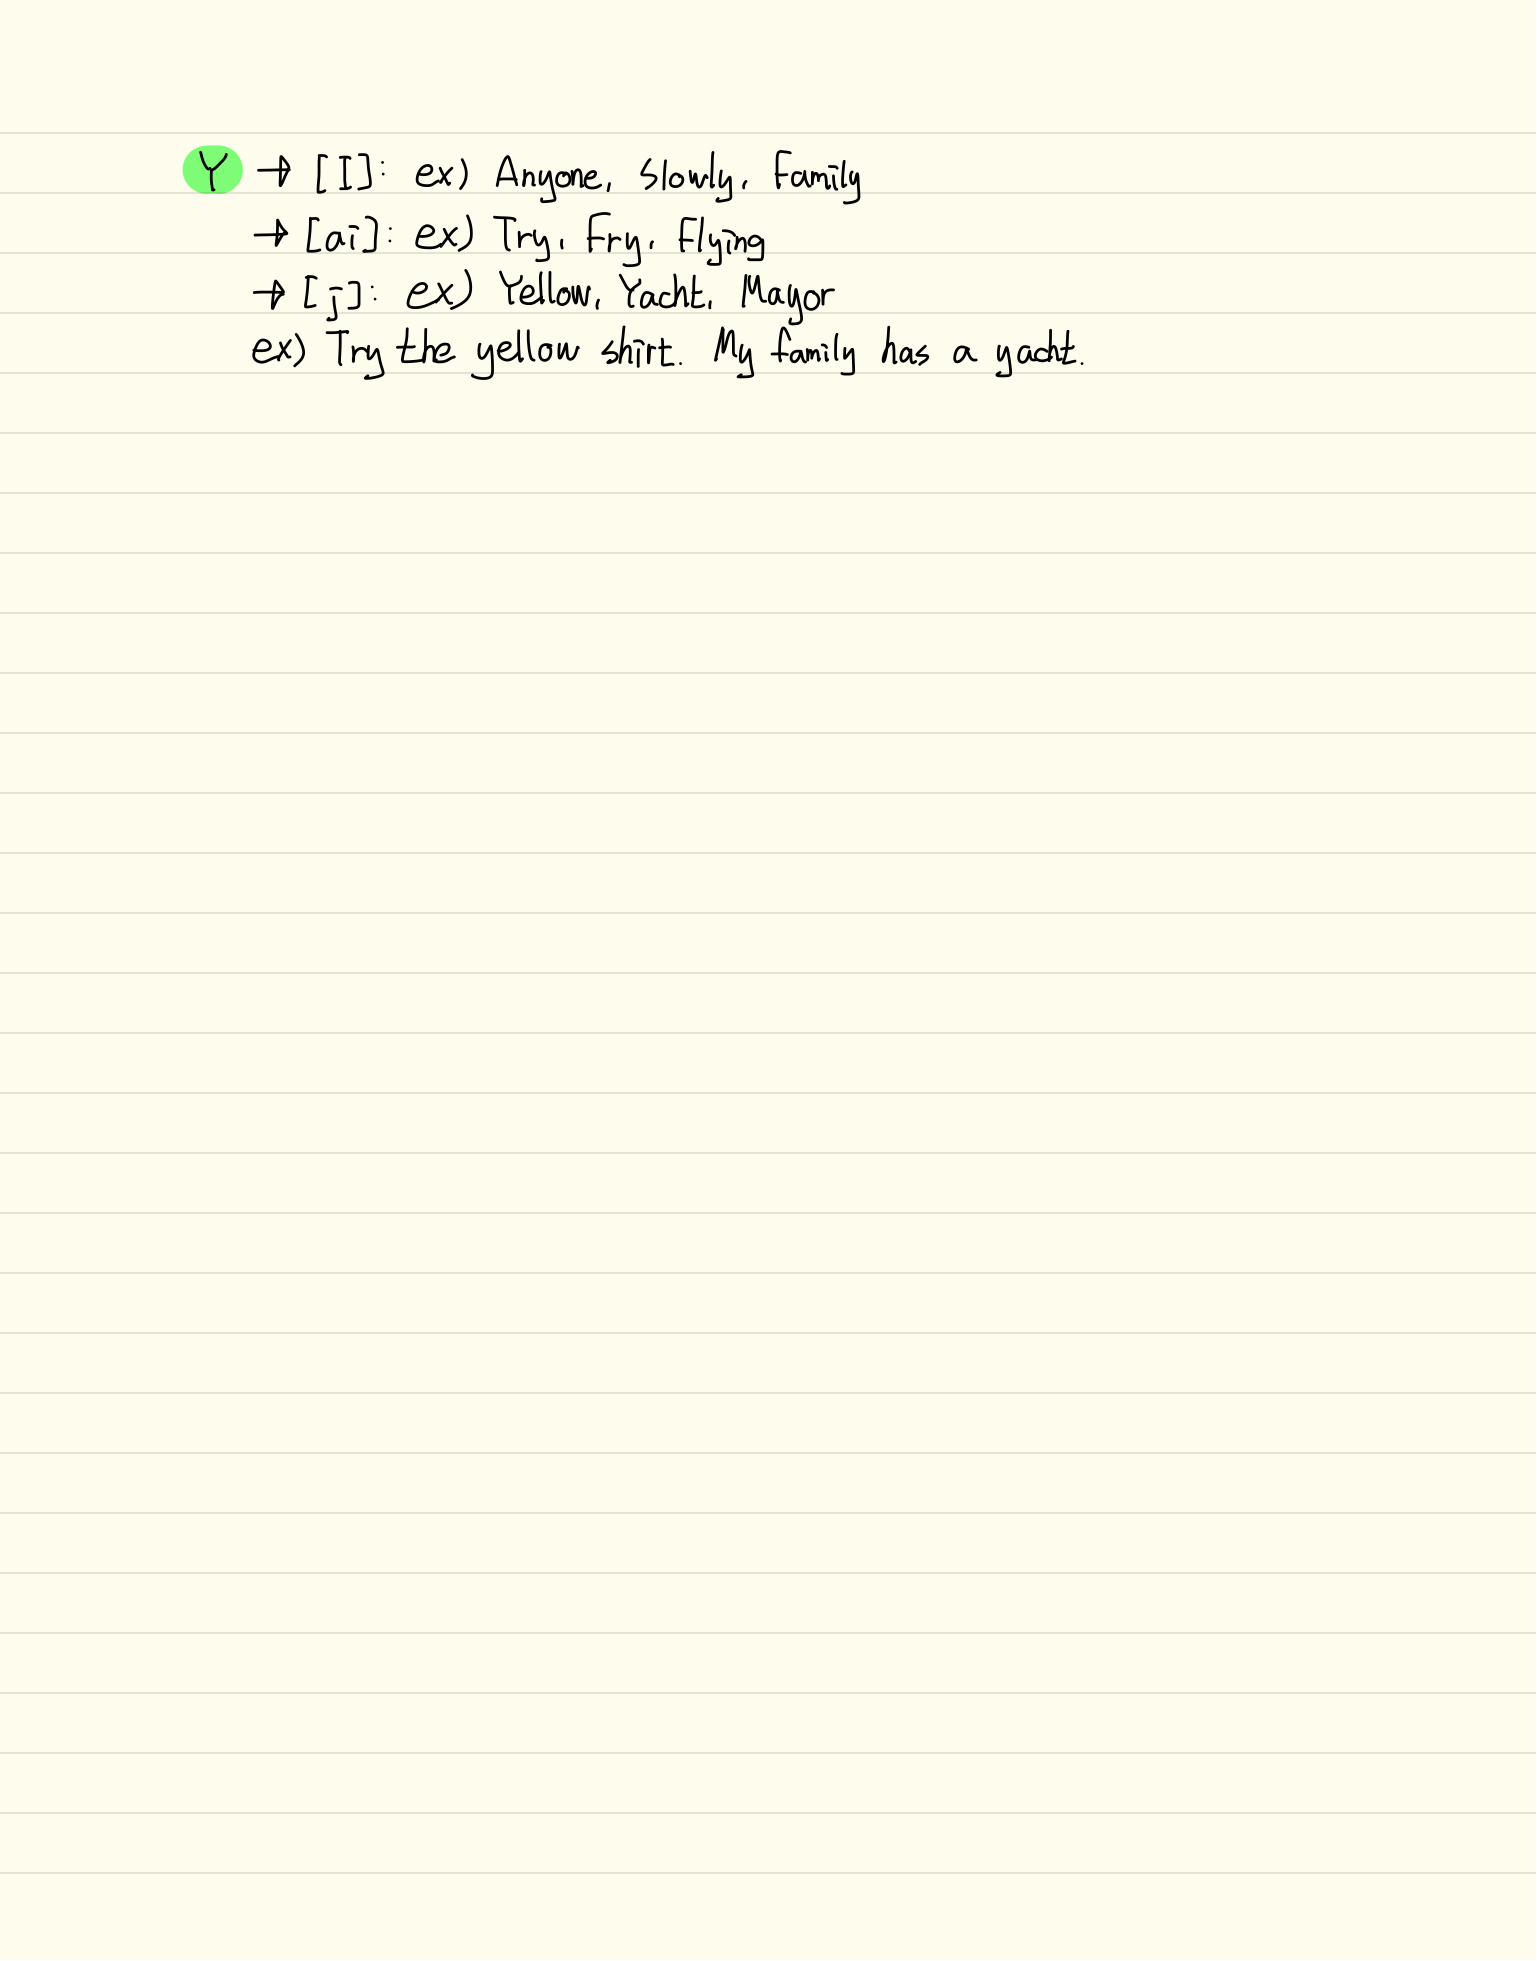
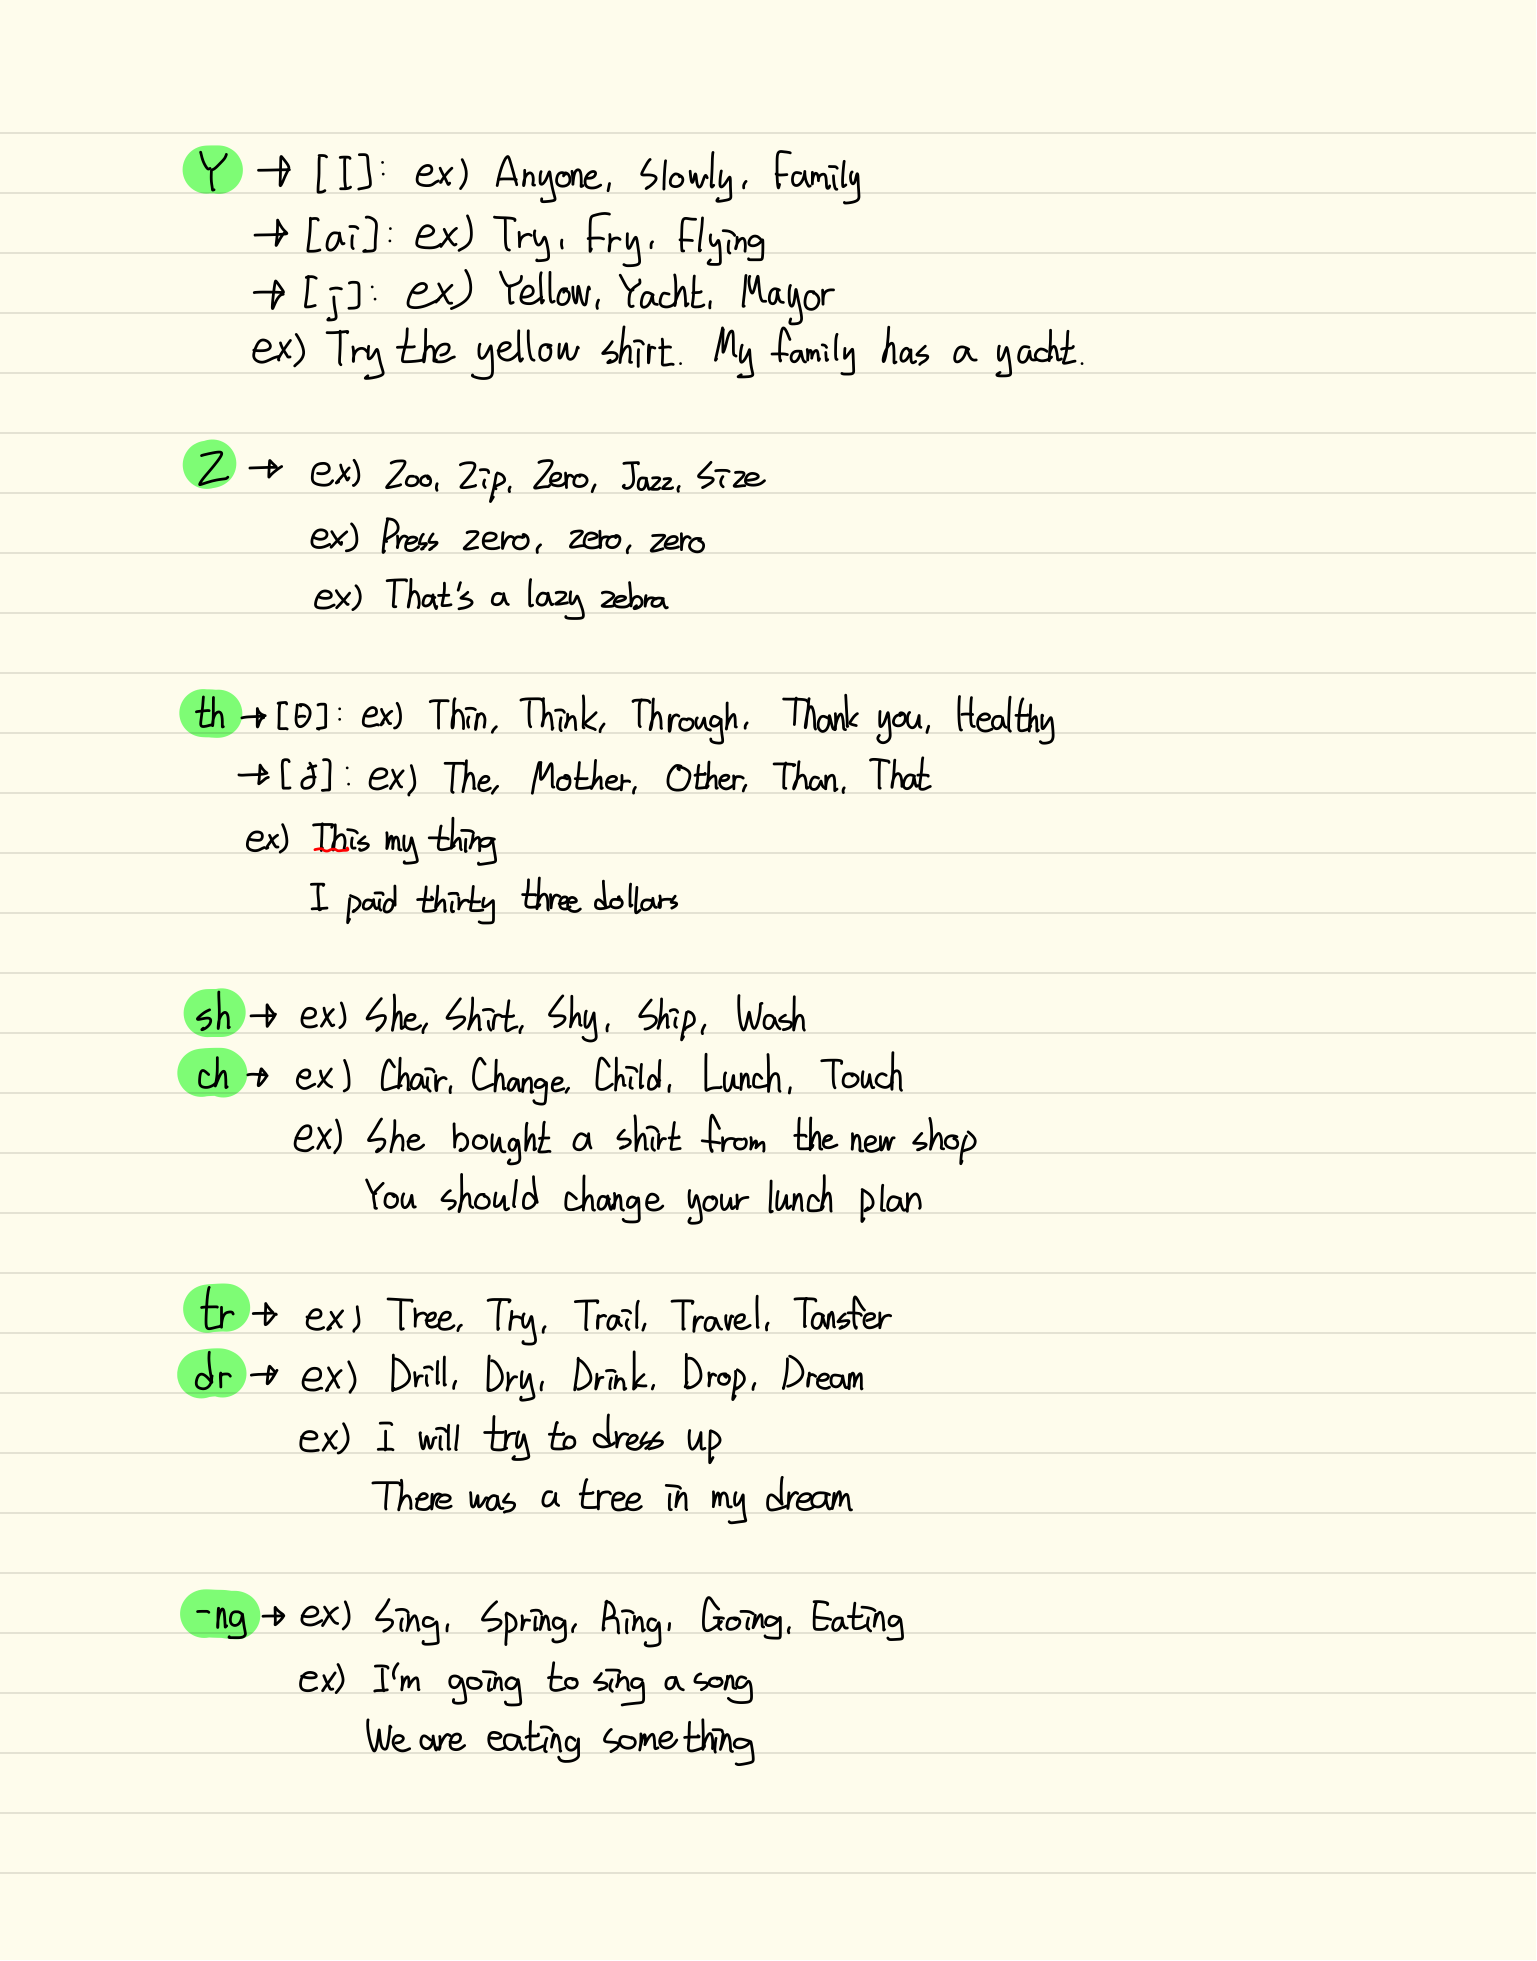
Finish pronunciation class

diff --git a/TOEIC/TS-Pronunciation.md b/TOEIC/TS-Pronunciation.md
@@ -9,3 +9,7 @@
 ![](TS-Pronunciation_4.png)
 
 ![](TS-Pronunciation_5.png)
+
+![](TS-Pronunciation_6.png)
+
+![](TS-Pronunciation_7.png)
